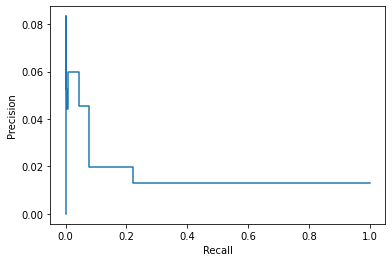
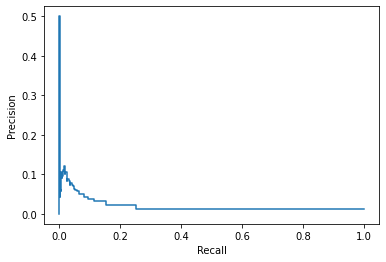
push updates to readme

diff --git a/Milestone3/orchestrator_scripts/KPMG/README.md b/Milestone3/orchestrator_scripts/KPMG/README.md
@@ -18,6 +18,7 @@ We perform remote learning in four scenarios:
 
 - We execute remote learning on only the SCL dataset
 - We execute remote learning on only the GFR dataset 
+- We execute federated learning on both datasets GFR and SCL with hyperparameters chosen by SAIL
 - We compute federated training on both datasets GFR and SCL with limited hyperparameter optimisation
 
 ### Hypotheses
@@ -58,7 +59,6 @@ The Orchestrator is a python library designed to used inside a jupyter notebook 
 The WebAPI allows data owners to accept contract requests and for researchers to discover data, propose contracts for this data and provision TEEs to operate on it.
 
 ### The Algorithm: SimFL
-
 In this iteration we implement a horizontal federated learning experiment using the SimFL algorithmm as outlined in [Practical Federated Gradient Boosting Decision Trees](https://arxiv.org/pdf/1911.04206.pdf). SimFL implements a version of gradient boosting decision trees where each party boosts a number of trees by exploiting shared similarity information based on [Locality Sensitive Hashing (LSH)](https://www.researchgate.net/publication/2634460_Similarity_Search_in_High_Dimensions_via_Hashing). The SimFl algorithm has two distinct phases; the preprocessing phase and the training phase.
 
 <p align="center">
@@ -81,7 +81,7 @@ For purposes of this experiment the data has been split into 3 chunks:
 
 - The `training set`, used to train SimFL
 - The `validation set`, used to understand model performance
-- The `test set`, used to generate predictions and shapley values on most recent cases to be consumed by NGOs in the federation
+- The `test set`, used to generate predictions and Shapley values on most recent cases to be consumed by NGOs in the federation
 
 ## Evaluation Results
 
@@ -89,8 +89,8 @@ For purposes of this experiment the data has been split into 3 chunks:
 
 | Model    | Avg. Precision | Avg. Recall |
 | :------- | :------------- | :---------- |
-| Baseline | 0.07           |             |
-| KPMG     | 0.01           |             |
+| Baseline | 0.01           |             |
+| KPMG     | 0.07           |             |
 | SAIL     | 0.12           | 0.06        |
 
 #### KPMG Precision/ Recall Curve 
@@ -102,9 +102,6 @@ For purposes of this experiment the data has been split into 3 chunks:
 <p align="left">
     <img src="images\SCL_only_AUC.png" height=300>
 </p>
-
-
-
 
 ### SimFL GFR only Evaluation Results
 
@@ -126,10 +123,16 @@ For purposes of this experiment the data has been split into 3 chunks:
 
 ### SIMFL Federated Evaluation Results
 
-| Model           | Avg. Precision | Avg. Recall |
-| :-------------- | :------------- | :---------- |
-| Baseline        | 0.011          |             |
-| Optimised Model | 0.0796         | 0.026       |
+| Model        | Avg. Precision | Avg. Recall |
+| :----------- | :------------- | :---------- |
+| Baseline     | 0.011          |             |
+| SAIL         | 0.11           | 0.026       |
+| Optuna Model | 0.07           | 0.026       |
+
+#### SAIL Optimised Model
+<p align="left">
+    <img src="images\federated_normal_AUC.png" height=300>
+</p>
 
 #### Optuna Optimised Model
 <p align="left">
@@ -138,13 +141,19 @@ For purposes of this experiment the data has been split into 3 chunks:
 
 ### Discussion
 
-While it was possible to train remotely on datasets SCL and GFR using the SAIL platform, training results were far from ideal. In all cases the baseline model was exceeded but predictive performance remains poor. With this being said, it is unclear at this stage whether the data in SCL and GFR has the potential to effectively predict customer churn. This should be a topic of investigation for Iteration 2.
+The SimFL algorithm was able to train on remote data as effectively as in ideal conditions. In all cases the baseline model performance was exceeded but predictive performance remains poor overall. It is unclear at this stage whether the data in SCL and GFR has the potential to effectively predict customer churn. This should be a topic of investigation for Iteration 2.
 
-The results produced by KPMG under ideal conditions were roughly matched by the experiments run on the individual datasets. However, the trained model is less performant on both datasets than the SCL predictor is alone. That being said, it is likely that the GFR NGO will benefit from the predictive power of the SCL dataset.
+The results produced by KPMG under ideal conditions were roughly matched by the experiments run on the individual datasets. However, the federated model is less performant on both datasets than the SCL predictor is alone.
 
-#### Algorithm Resource Efficiency Issues
+#### Algorithm/ Infrastructure Issues
 
-While consistent with centralized learning, the SimFL implementation was found to be quite inefficient when processing larger datasets. Intensive memory usage makes this build unstable. A lack of parallelization makes it slow to run to completion. This severely inhibits our ability to run hyperparameter optimization over a large number of iterations. This is an issue which will be resolved by SAIL in future iterations.
+The SimFL algorithm we are using is still in beta stage. We ran into a number of issues when processing the data.
+
+##### Memory Consumption
+While consistent with centralized learning, the SimFL implementation was found to be quite inefficient when processing larger datasets. Intensive memory usage makes this build unstable and causes complications in state management in our infrastructure. SAIL will address this memory consumption issue in the next iteration. 
+
+##### Distribution of data resources Complicates Parallelization of Exectution
+The SimFL algorithm is running on distributed infrastructure and this adds a layer of complexity. We need to expand upon features on the orchestrator side to negotiate this training sequence with the remote VMs in parallel. A lack of parallelization makes this slow to run to completion. Slow processing speeds severely inhibit our ability to run hyperparameter optimization over a large number of iterations. This is an issue which will be resolved by SAIL in future iterations.
 
 
 #### Feature Engineering Output
@@ -152,7 +161,7 @@ While consistent with centralized learning, the SimFL implementation was found t
 There are a number of points where we believe we could improve the model performance by enhancing the feature engineering sections.
 
 ##### Improved Data Imputation
-The first of these is that there are a large number of NaN values in the dataset. NaN values cannot be hashed properly by SimFL and so we change all NaN values to 0. However, it would be to the advantage of the study of these data points were to be imputed with something meaningful for that column, for example the mean value.
+The first is that there are a large number of NaN values in the dataset. NaN values cannot be hashed properly by SimFL and so we change all NaN values to 0 by default in the preprocessing script. However, we believe it would yield better results if these data points were to be imputed with something meaningful for that column; the mean value for example.
 
 ##### Dataset Incongruence
 The predictive performance of the federated model can partially be explained by structural dissimilarities between datasets SCL and GFR. Further investigation should go into this by the data owner federation. We were able to pick up on this potential through disparities found between the SHAP bee swarm plots (See below). While differences in SHAP output can be explained through covariance between features in specific examples, it can also mean that the structure learned by the model is incongruent. Our ability to accurately diagnose and fix is limited/ time expensive due to privacy constraints.
@@ -171,7 +180,7 @@ agg_df["is_churned_within3m"] = np.where((agg_df['CancelDate_y_min'].dt.year <= 
 ```
 
 ##### Covid Data Drift
-A time series model may be frustrated by a change in consumer behaviour over the last year. Covid has likely caused new competition between NGOs which may skew instances gathered more recently. This is likely compounded by the economic impact of the virus. This likely a source of data drift. We can avoid this by trimming a large amount of the old data. 
+A time series model may be frustrated by a change in consumer behavior over the last year. Covid has likely caused new competition between NGOs which may skew instances gathered more recently. This is likely compounded by the economic impact of the virus. We believe this may be a source of data drift. We can avoid this by trimming a large amount of the old data. 
 
 ##### Feature Reduction
 Currently we run the model over 80 features. However, according to our SHAP plots, a large number of these are not useful. We would recommend making a cut-off to just the features included in the diagram below. Unnecessary features create unnecessary noise for the model to deal with. We recommend you choose only a minority of these features. Below they are listed in order of importance.
@@ -182,8 +191,7 @@ Currently we run the model over 80 features. However, according to our SHAP plot
 
 
 ### Conclusions
-
-Our SimFL learning model was able to successfully train in the distributed learning environment and exceed the performance of the baseline. The extent to which this was exceeded is low but consistent with centralised learning. The federated learning model was more performant than GFR but less performant when predicting upon SCL. However, this is likely due to poor predictive power of GFR. It is unclear to us at this time whether the datasets contain enough information to effectively predict customer churn. 
+The SimFL learning model was able to successfully train in the distributed environment and exceed the performance of the baseline. The extent to which this was exceeded is low but consistent with centralizeded learning in the ocntext of this data. The federated learning model was more performant than GFR but less performant when predicting upon SCL. However, this is likely due to poor predictive power of GFR. It is unclear to us at this time whether the datasets contain enough information to effectively predict customer churn. 
 
 #### Proposed Goals for Iteration 2
 
@@ -195,10 +203,12 @@ Our SimFL learning model was able to successfully train in the distributed learn
 ## Deliverable Checklist
 - ```Fed_NGOs``` 
   - ```hyperparameter_opt_clean.ipynb``` containing results for the single training example
-
+  - ```orchestrator_federated_clean.ipynb``` containing results for the single training example
   - ```study_federated_SCL_GFR.pkl``` a pickled ```Optuna``` study object used to reinitiate the hyperparameter optimisation after termination.
-  - ```predictions_federated_optimised_shap_GFR_test.csv```, containing predictions and shap values corresponding to the predictions of the test dataset of GFR, to be consumed by GFR.
-  - ```predictions_federated_optimised_shap_SCL_test.csv```, containing predictions and shap values corresponding to the predictions of the test dataset of GFR, to be consumed by SCL.  
+  - ```predictions_federated_optimised_shap_GFR_test.csv```, containing predictions and shap values corresponding to the predictions of the test dataset of GFR, to be consumed by GFR. Pertains to Optuna optimised notebook.
+  - ```predictions_federated_optimised_shap_SCL_test.csv```, containing predictions and shap values corresponding to the predictions of the test dataset of GFR, to be consumed by SCL.  Pertains to Optuna optimised notebook.
+  - ```predictions_federated_shap_GFR_test.csv```, containing predictions and shap values corresponding to the predictions of the test dataset of GFR, to be consumed by GFR. Pertains to SAIL optimised notebook.
+  - ```predictions_federated_shap_SCL_test.csv```, containing predictions and shap values corresponding to the predictions of the test dataset of GFR, to be consumed by SCL. Pertains to SAIL optimised notebook.
 - ```SCL_only```
   - ```orchestrator_Federated_clean.ipynb```, contains results from training SimFL on only SCL.
   - ```predictions_shap_SCL_test.csv```, contains predictions and shap values corresponding to SCL test.
